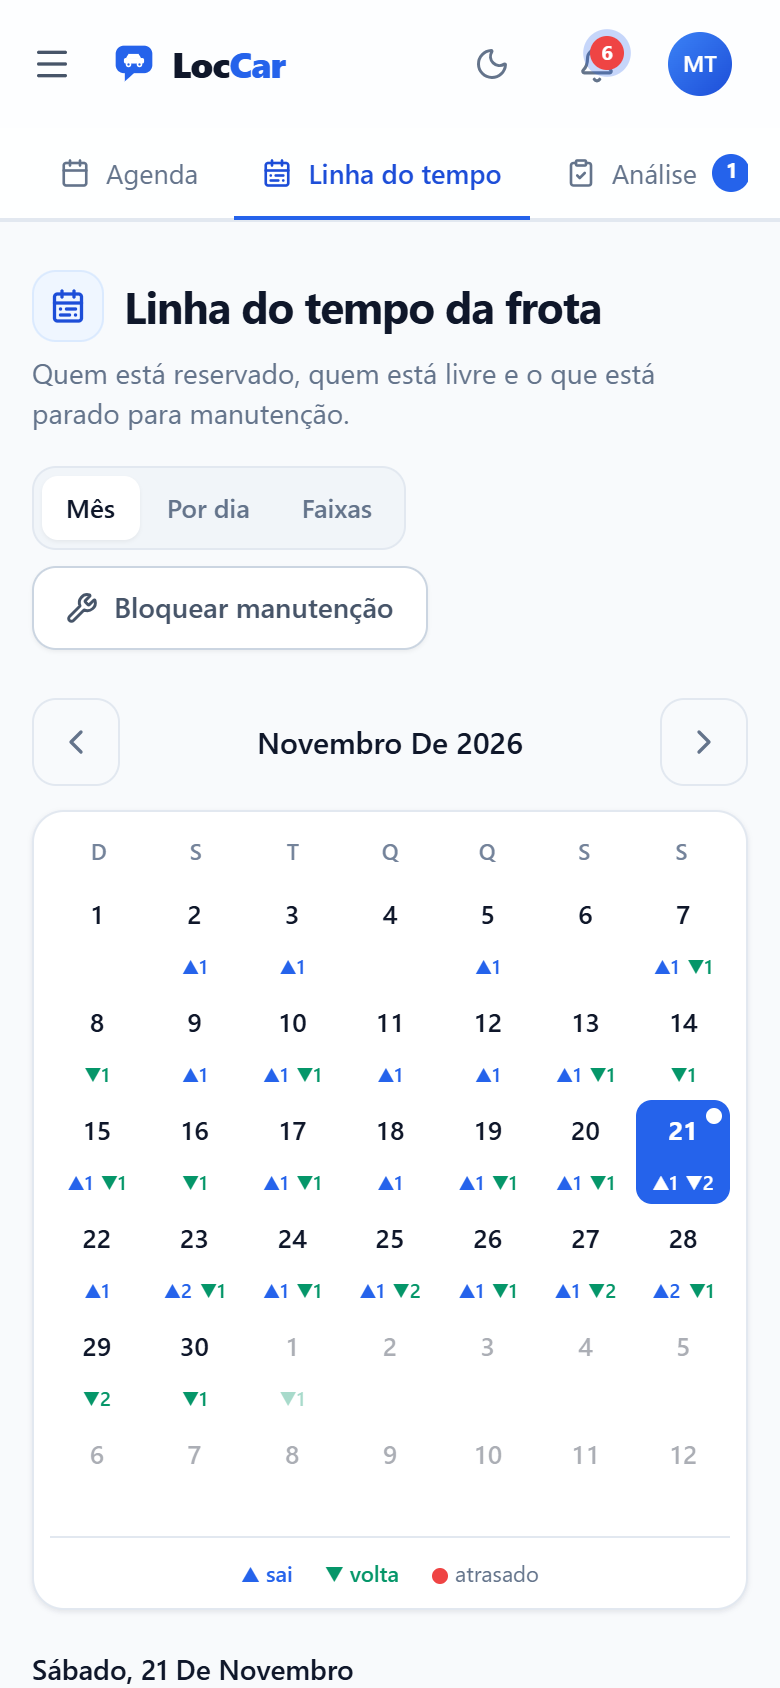
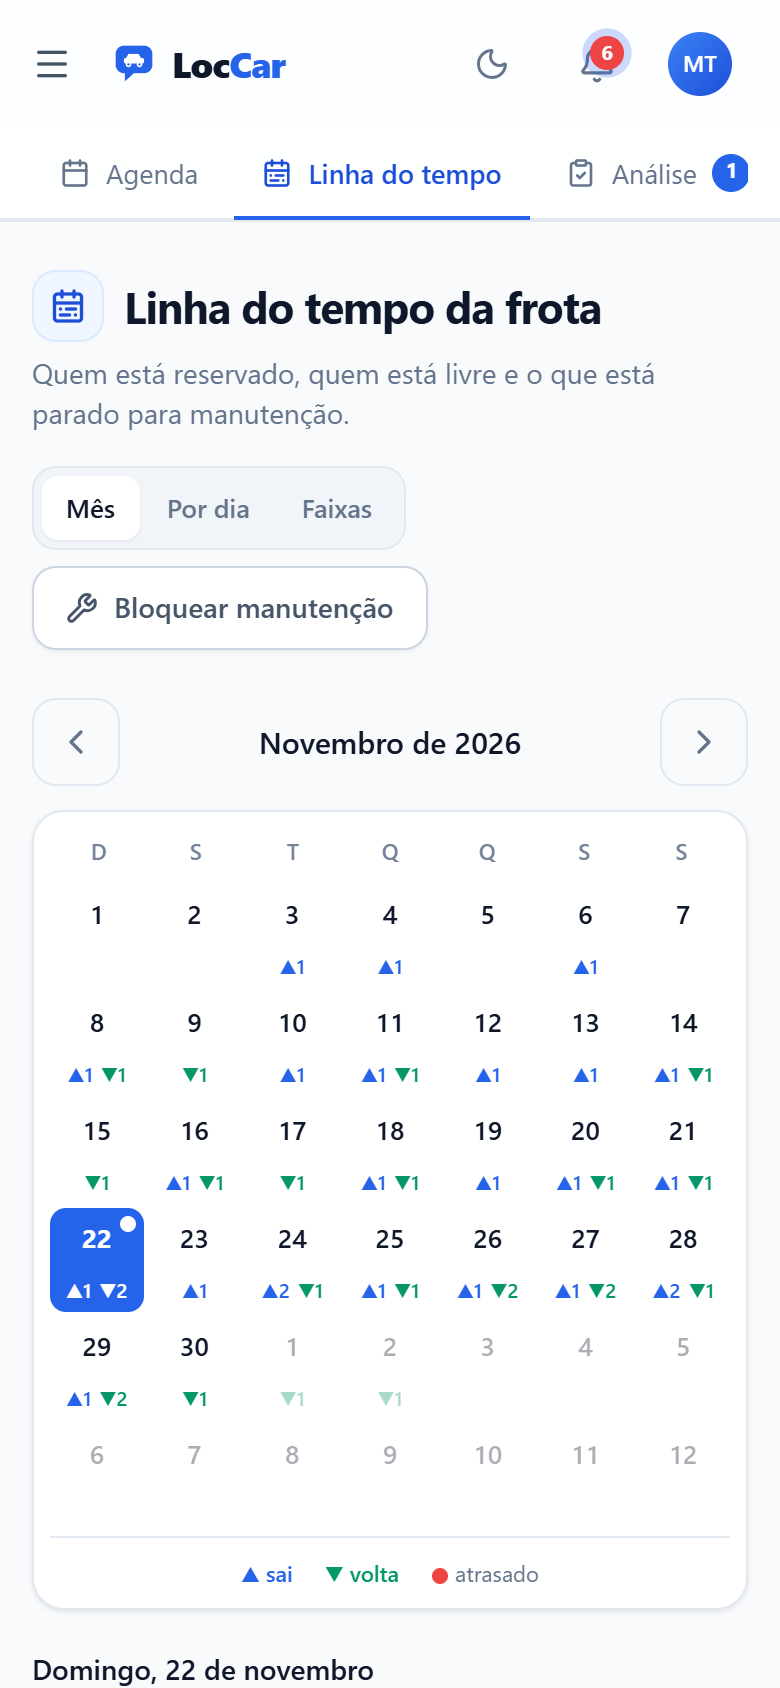
Corrige modal, numero do Painel e datas; print do Painel no celular
- Mesmas correcoes do sistema original: modal renderizado no body e
  animacoes sem transform segurado (o modal saia da tela no computador),
  numero do indicador escalando com a largura do cartao e datas com so a
  primeira letra maiuscula
- Prints refeitos com o app corrigido, agora incluindo o Painel no celular
- CI com actions/checkout e setup-node v5 (fim do aviso do Node 20)

diff --git a/web/src/pages/Painel.jsx b/web/src/pages/Painel.jsx
@@ -91,19 +91,27 @@ function Variacao({ valor, sufixo = 'vs. período anterior' }) {
   );
 }
 
-/** Cartão de indicador do topo. */
-function Indicador({ icon: Icon, rotulo, valor, hero = false, children }) {
+/**
+ * Cartão de indicador do topo.
+ *
+ * O número se ajusta à LARGURA DO CARTÃO (container query, unidade cqi): com
+ * tamanho fixo, "R$ 20.202,00" a 44px saía do cartão em 1280–1440px e era
+ * cortado no celular. 12cqi faz até ~13 caracteres caberem; o clamp mantém o
+ * destaque grande quando há espaço e um mínimo legível quando não há.
+ */
+function Indicador({ icon: Icon, rotulo, valor, hero = false, className, children }) {
   return (
-    <Card className="p-5" hover>
+    <Card className={cx('p-5 [container-type:inline-size]', className)} hover>
       <div className="flex items-center gap-2 text-[12px] text-suave mb-2.5">
         <Icon size={14} strokeWidth={2.2} />
         {rotulo}
       </div>
       <div
         className={cx(
-          'font-bold text-conteudo leading-none',
-          hero ? 'text-[40px] sm:text-[44px]' : 'text-[26px]'
+          'font-bold text-conteudo leading-none whitespace-nowrap tabular-nums',
+          hero ? 'text-[length:clamp(24px,12cqi,44px)]' : 'text-[length:clamp(18px,12cqi,26px)]'
         )}
+        title={typeof valor === 'string' ? valor : undefined}
       >
         {valor}
       </div>
@@ -234,7 +242,14 @@ export default function Painel() {
       {/* Indicadores                                                       */}
       {/* ---------------------------------------------------------------- */}
       <div className="grid grid-cols-2 lg:grid-cols-4 gap-4">
-        <Indicador icon={Wallet} rotulo="Receita no período" valor={brl(indicadores.receita.valor)} hero>
+        {/* No celular a receita ocupa a linha toda: é o número que mais importa. */}
+        <Indicador
+          icon={Wallet}
+          rotulo="Receita no período"
+          valor={brl(indicadores.receita.valor)}
+          hero
+          className="col-span-2 lg:col-span-1"
+        >
           <Variacao valor={indicadores.receita.variacao} />
         </Indicador>
 

diff --git a/web/tailwind.config.js b/web/tailwind.config.js
@@ -129,13 +129,20 @@ export default {
         },
       },
 
+      // As animações com TRANSFORM usam `backwards`, não `both`. O último quadro
+      // de todas já é o estado natural do elemento, então segurar o fim não muda
+      // nada na tela — mas um transform que fica aplicado transforma o elemento
+      // em referência para todo `position: fixed` lá dentro. Com `both`, o
+      // contêiner das páginas (animate-fade-up) prendia modais e o visualizador
+      // de documentos à área do conteúdo, e o modal subia para fora da tela.
+      // `backwards` continua escondendo o item antes de um atraso (stagger).
       animation: {
         'fade-in': 'fade-in 0.25s ease-out both',
-        'fade-up': 'fade-up 0.35s cubic-bezier(0.16, 1, 0.3, 1) both',
-        'scale-in': 'scale-in 0.18s cubic-bezier(0.16, 1, 0.3, 1) both',
-        'slide-left': 'slide-left 0.35s cubic-bezier(0.16, 1, 0.3, 1) both',
-        'slide-in-right': 'slide-in-right 0.28s cubic-bezier(0.16, 1, 0.3, 1) both',
-        'slide-in-left': 'slide-in-left 0.28s cubic-bezier(0.16, 1, 0.3, 1) both',
+        'fade-up': 'fade-up 0.35s cubic-bezier(0.16, 1, 0.3, 1) backwards',
+        'scale-in': 'scale-in 0.18s cubic-bezier(0.16, 1, 0.3, 1) backwards',
+        'slide-left': 'slide-left 0.35s cubic-bezier(0.16, 1, 0.3, 1) backwards',
+        'slide-in-right': 'slide-in-right 0.28s cubic-bezier(0.16, 1, 0.3, 1) backwards',
+        'slide-in-left': 'slide-in-left 0.28s cubic-bezier(0.16, 1, 0.3, 1) backwards',
         shimmer: 'shimmer 1.6s infinite',
         'pulse-ring': 'pulse-ring 2s ease-out infinite',
         'draw-line': 'draw-line 1.1s ease-out both',

diff --git a/web/src/components/CalendarioMes.jsx b/web/src/components/CalendarioMes.jsx
@@ -20,7 +20,7 @@ import {
   AlertTriangle,
   CalendarCheck,
 } from 'lucide-react';
-import { hora, telefone } from '../format.js';
+import { hora, telefone, maiusculaInicial } from '../format.js';
 import { Card, Badge, EmptyState, cx } from './ui.jsx';
 
 const DIAS_SEMANA = ['D', 'S', 'T', 'Q', 'Q', 'S', 'S'];
@@ -129,7 +129,7 @@ export default function CalendarioMes({ mesBase, reservas = [], diaEscolhido, on
         >
           <ChevronLeft size={20} />
         </button>
-        <span className="text-[15px] font-semibold text-conteudo capitalize">{rotuloMes}</span>
+        <span className="text-[15px] font-semibold text-conteudo">{maiusculaInicial(rotuloMes)}</span>
         <button
           onClick={() => onTrocarMes(1)}
           aria-label="Próximo mês"
@@ -241,12 +241,12 @@ export default function CalendarioMes({ mesBase, reservas = [], diaEscolhido, on
       {/* O dia escolhido, logo abaixo — no celular é só continuar rolando */}
       <div className="mt-5">
         <div className="flex items-center justify-between gap-3 mb-2.5">
-          <h2 className="text-sm font-semibold text-conteudo capitalize">
-            {diaEscolhido.toLocaleDateString('pt-BR', {
+          <h2 className="text-sm font-semibold text-conteudo">
+            {maiusculaInicial(diaEscolhido.toLocaleDateString('pt-BR', {
               weekday: 'long',
               day: '2-digit',
               month: 'long',
-            })}
+            }))}
           </h2>
           {temAperto && (
             <Badge tone="amber" icon={AlertTriangle}>

diff --git a/web/src/components/Modal.jsx b/web/src/components/Modal.jsx
@@ -8,6 +8,7 @@
 //    if (await confirmar({ titulo: 'Remover veículo?', tom: 'danger' })) { … }
 // ============================================================================
 import { createContext, useCallback, useContext, useEffect, useRef, useState } from 'react';
+import { createPortal } from 'react-dom';
 import { X, AlertTriangle } from 'lucide-react';
 import { Button, cx } from './ui.jsx';
 
@@ -79,7 +80,11 @@ export function Modal({
 
   if (!open) return null;
 
-  return (
+  // Renderiza direto no <body>. Dentro da tela, qualquer ancestral com
+  // `transform` (animação de entrada, cartão sendo arrastado, menu que abre
+  // com escala) vira a referência do `position: fixed` e a janela sai do
+  // lugar. Sem `document` (render no servidor dos testes) fica onde está.
+  const janela = (
     <div
       className="fixed inset-0 z-[90] flex items-end sm:items-center justify-center sm:p-4"
       role="dialog"
@@ -141,6 +146,8 @@ export function Modal({
       </div>
     </div>
   );
+
+  return typeof document === 'undefined' ? janela : createPortal(janela, document.body);
 }
 
 // ----------------------------------------------------------------------------

diff --git a/web/src/pages/Timeline.jsx b/web/src/pages/Timeline.jsx
@@ -22,7 +22,7 @@ import {
   Car,
 } from 'lucide-react';
 import { api } from '../api.js';
-import { dt, brl, telefone } from '../format.js';
+import { dt, brl, telefone, maiusculaInicial } from '../format.js';
 import { useToast } from '../components/Toast.jsx';
 import { Modal, useConfirm } from '../components/Modal.jsx';
 import { Skeleton } from '../components/Skeleton.jsx';
@@ -377,8 +377,8 @@ export default function Timeline() {
               }}
               className="bg-superficie border border-borda rounded-xl px-3 py-1.5 text-sm text-conteudo outline-none [color-scheme:light] dark:[color-scheme:dark]"
             />
-            <span className="text-[13px] text-suave capitalize ml-1">
-              {diaFoco.toLocaleDateString('pt-BR', { weekday: 'long', day: '2-digit', month: 'long' })}
+            <span className="text-[13px] text-suave ml-1">
+              {maiusculaInicial(diaFoco.toLocaleDateString('pt-BR', { weekday: 'long', day: '2-digit', month: 'long' }))}
             </span>
           </div>
 

diff --git a/web/src/pages/Relatorio.jsx b/web/src/pages/Relatorio.jsx
@@ -21,7 +21,7 @@ import {
 } from 'lucide-react';
 import { api } from '../api.js';
 import { lerSessao } from '../sessao.js';
-import { brl } from '../format.js';
+import { brl, maiusculaInicial } from '../format.js';
 import Logo from '../components/Logo.jsx';
 import { Card, Button, ErrorBanner, Loading, EmptyState, cx } from '../components/ui.jsx';
 
@@ -216,7 +216,7 @@ export default function Relatorio() {
             </div>
             <div className="text-right">
               <div className="text-xs uppercase tracking-widest text-suave-2">Relatório mensal</div>
-              <div className="text-base font-bold text-conteudo capitalize mt-0.5">{rotuloMes}</div>
+              <div className="text-base font-bold text-conteudo mt-0.5">{maiusculaInicial(rotuloMes)}</div>
               <div className="text-[11px] text-suave-2 mt-0.5">Gerado em {geradoEm}</div>
             </div>
           </div>

diff --git a/web/src/pages/Despesas.jsx b/web/src/pages/Despesas.jsx
@@ -17,7 +17,7 @@ import {
   CalendarDays,
 } from 'lucide-react';
 import { api } from '../api.js';
-import { brl, data as fmtData } from '../format.js';
+import { brl, data as fmtData, maiusculaInicial } from '../format.js';
 import { useToast } from '../components/Toast.jsx';
 import { Modal, useConfirm } from '../components/Modal.jsx';
 import {
@@ -189,8 +189,8 @@ export default function Despesas() {
         >
           <ChevronLeft size={17} />
         </button>
-        <span className="text-sm font-semibold text-conteudo capitalize min-w-[9rem] text-center">
-          {intervalo.rotulo}
+        <span className="text-sm font-semibold text-conteudo min-w-[9rem] text-center">
+          {maiusculaInicial(intervalo.rotulo)}
         </span>
         <button
           onClick={() => setMes((m) => deslocarMes(m, +1))}

diff --git a/web/src/index.css b/web/src/index.css
@@ -132,9 +132,11 @@
     background-size: 44px 44px;
   }
 
-  /* Escalonamento da animação de entrada em listas (delay progressivo). */
+  /* Escalonamento da animação de entrada em listas (delay progressivo).
+     `backwards` e não `both`: ver o comentário das animações no tailwind.config.js
+     (transform segurado no fim prende `position: fixed` dos filhos). */
   .stagger > * {
-    animation: fade-up 0.35s cubic-bezier(0.16, 1, 0.3, 1) both;
+    animation: fade-up 0.35s cubic-bezier(0.16, 1, 0.3, 1) backwards;
   }
   .stagger > *:nth-child(1) { animation-delay: 0.02s; }
   .stagger > *:nth-child(2) { animation-delay: 0.06s; }

diff --git a/web/src/format.js b/web/src/format.js
@@ -41,6 +41,15 @@ export function diaExtenso(iso) {
   });
 }
 
+/**
+ * Só a primeira letra da frase em maiúscula: "novembro de 2026" → "Novembro de 2026".
+ * (A classe CSS `capitalize` sobe a inicial de TODA palavra e dava "Novembro De 2026".)
+ */
+export function maiusculaInicial(texto) {
+  if (!texto) return texto;
+  return texto.charAt(0).toLocaleUpperCase('pt-BR') + texto.slice(1);
+}
+
 /** Tempo relativo simples: "agora", "há 5 min", "há 2 h", "há 3 d". */
 export function relativo(iso) {
   if (!iso) return '—';

diff --git a/README.md b/README.md
@@ -69,7 +69,12 @@ retirada e na devolução, com o que mudou calculado sozinho.
 **Painel executivo** — receita, ocupação, ticket médio, funil do WhatsApp até a locação e os
 veículos que mais faturam.
 
-<img src="docs/prints/painel.png" alt="Painel com receita, locações, ticket médio, ocupação e gráfico de receita por dia" />
+<table>
+  <tr>
+    <td width="75%"><img src="docs/prints/painel.png" alt="Painel com receita, locações, ticket médio, ocupação e gráfico de receita por dia" /></td>
+    <td><img src="docs/prints/painel-celular.png" width="220" alt="Painel no celular, com a receita ocupando a linha inteira" /></td>
+  </tr>
+</table>
 
 **Dinheiro** — entrou, gastou, sobrou, e o que ainda está em aberto hoje.
 
